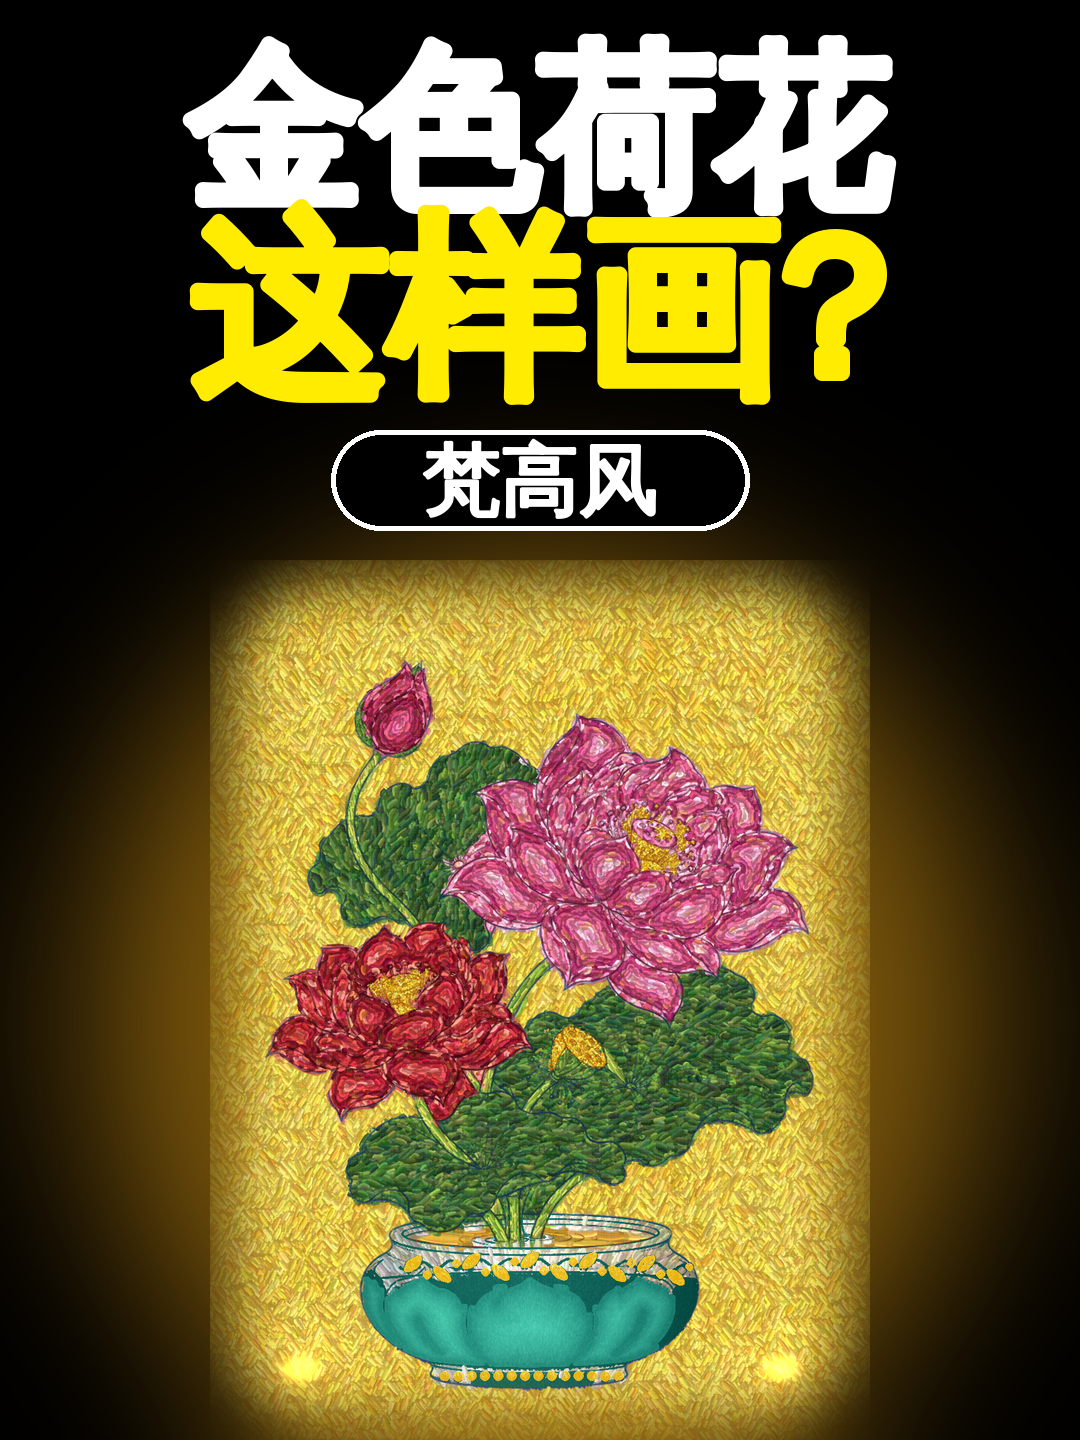
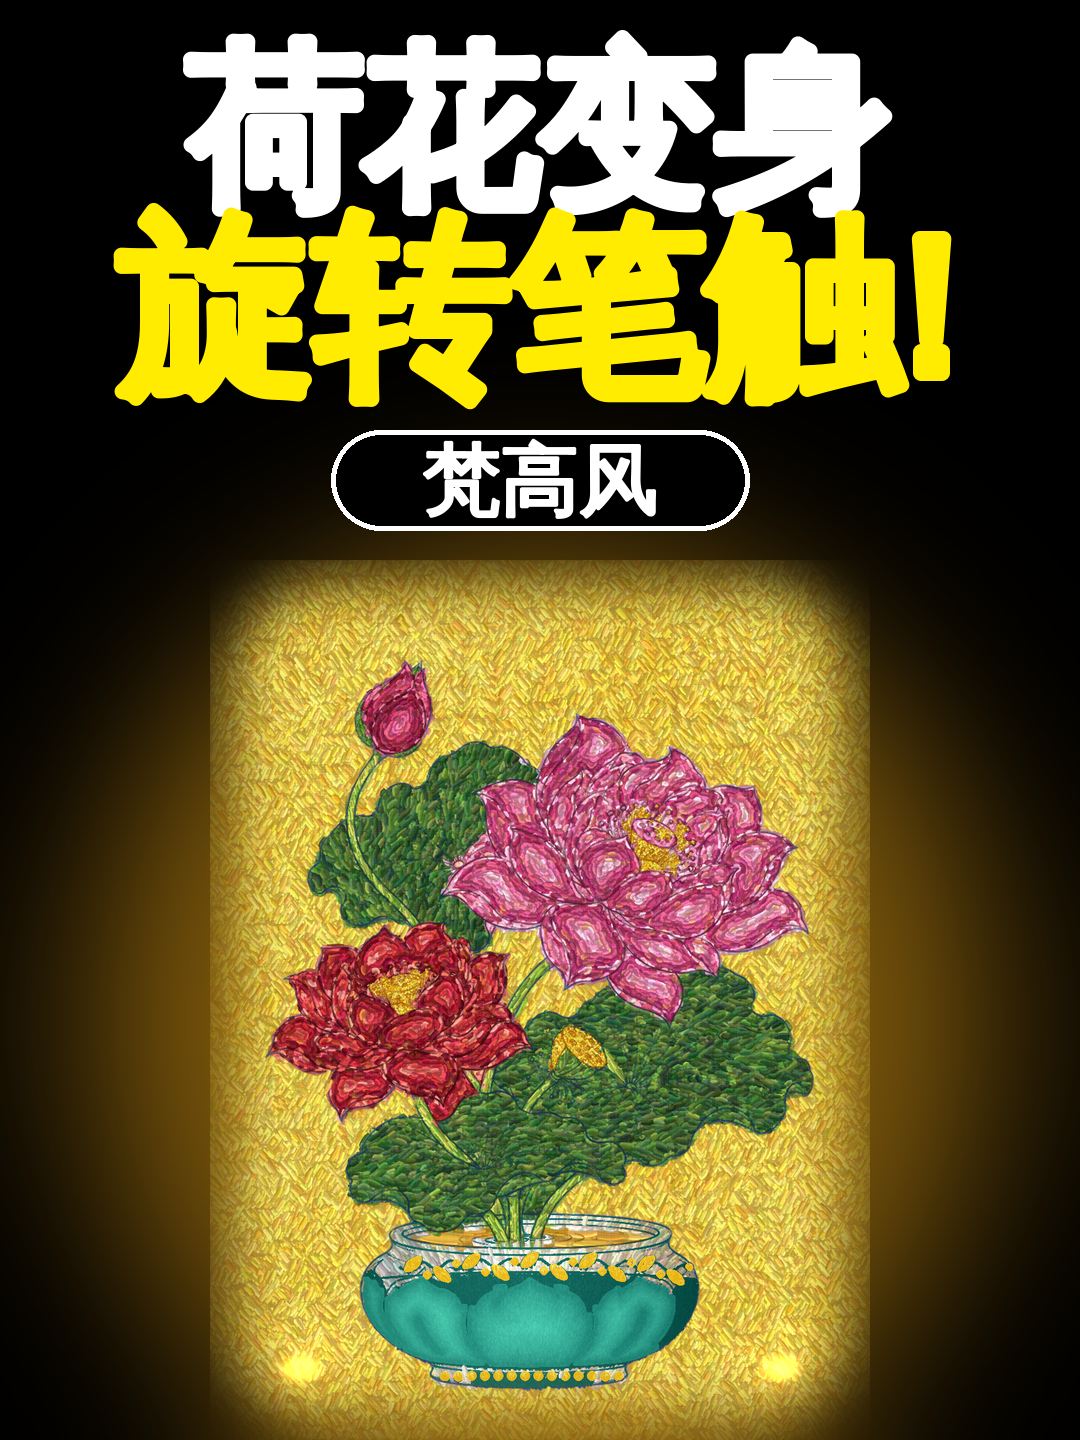
Lotus Van Gogh cover: new headline
Claude-Session: https://claude.ai/code/session_01Vdfste3ym7yyiZRhYkiYaU

Changed region(s): [[0.0917, 0.0, 0.8861, 0.2812]]

diff --git a/projects/lotus_masters_20261109/code/cover_klimt_lotus.py b/projects/lotus_masters_20261109/code/cover_klimt_lotus.py
@@ -23,7 +23,8 @@ glow = Image.new('RGB', (W, H), (0, 0, 0)); gd = ImageDraw.Draw(glow)
 for (x, y) in [(300, 1368), (780, 1368)]: gd.ellipse((x - 16, y - 8, x + 16, y + 8), fill=(255, 190, 60))
 big = glow.filter(ImageFilter.GaussianBlur(26)); P = ImageChops.add(P, big); P = ImageChops.add(P, glow.filter(ImageFilter.GaussianBlur(5)))
 dr = ImageDraw.Draw(P)
-def heavy(xy, text, size, fill):                                   # faux-bold: the font is regular weight, so stroke it
+def heavy(xy, text, size, fill):
+    while dr.textlength(text, font=f(size)) > 860: size -= 6                                   # faux-bold: the font is regular weight, so stroke it
     dr.text(xy, text, font=f(size), fill=fill, anchor='mm', stroke_width=max(3, size // 22), stroke_fill=fill)
 heavy((W // 2, 128), l1, 176, (255, 255, 255))
 heavy((W // 2, 308), l2, 196, (255, 236, 0))
